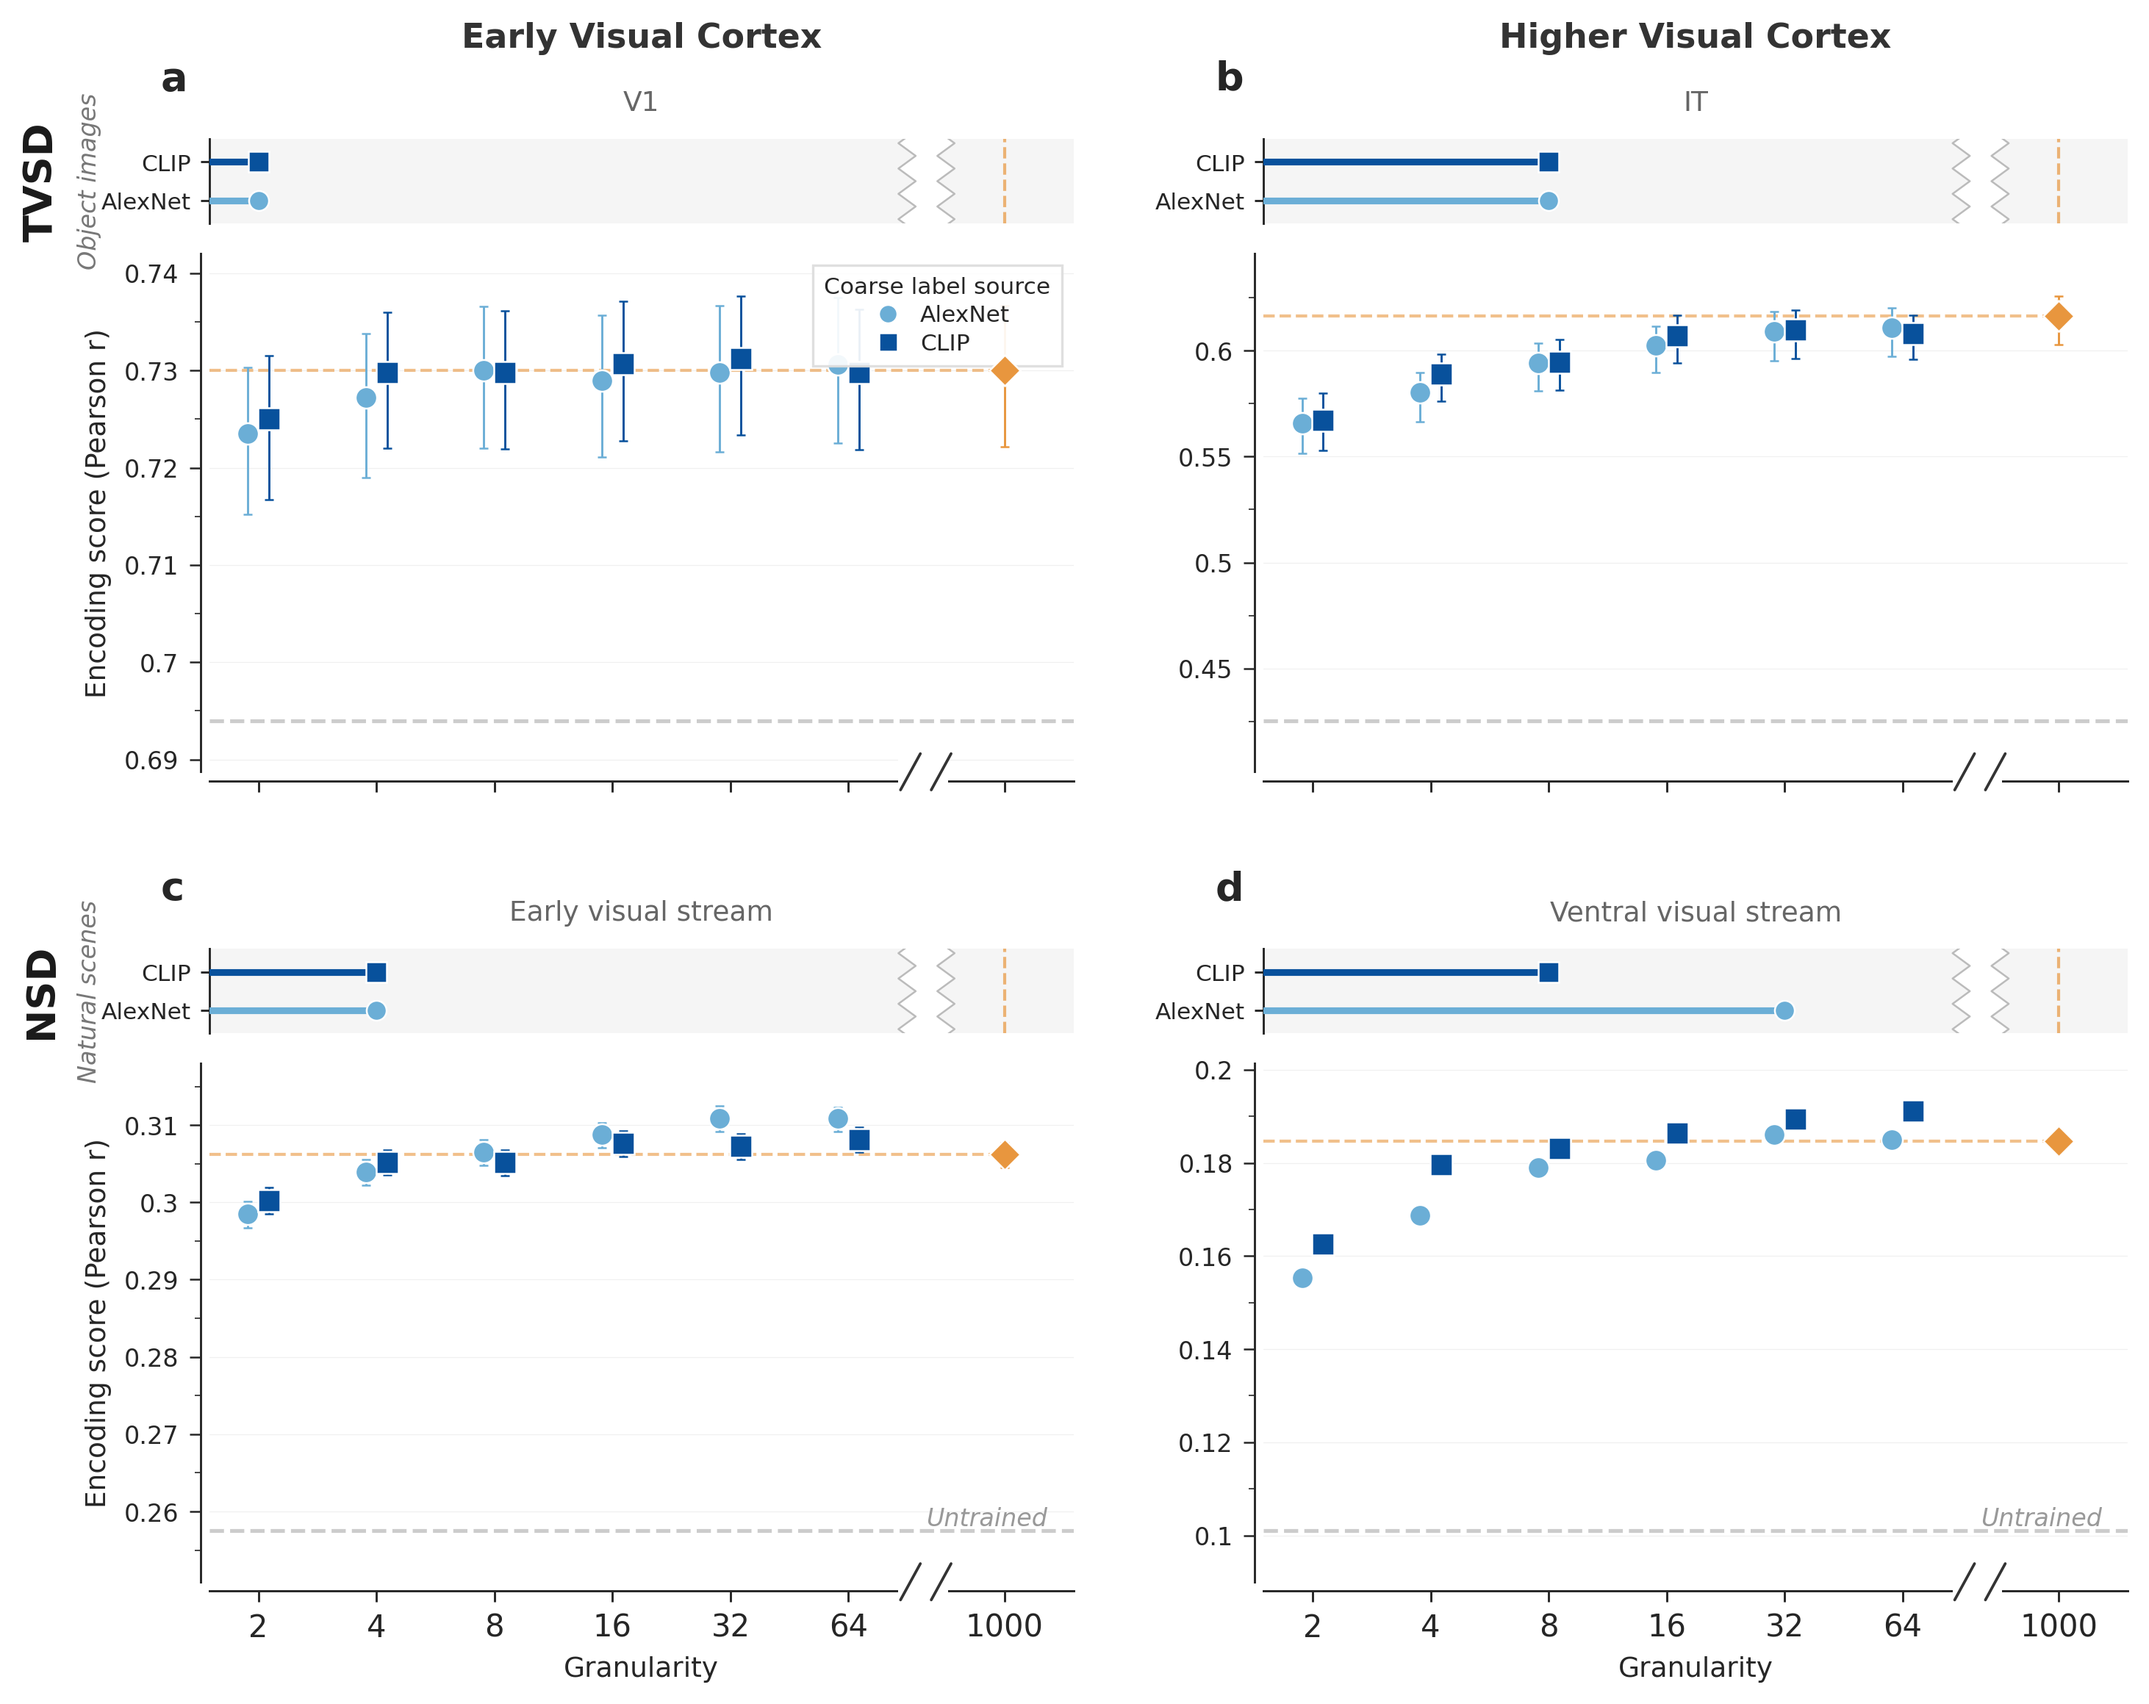
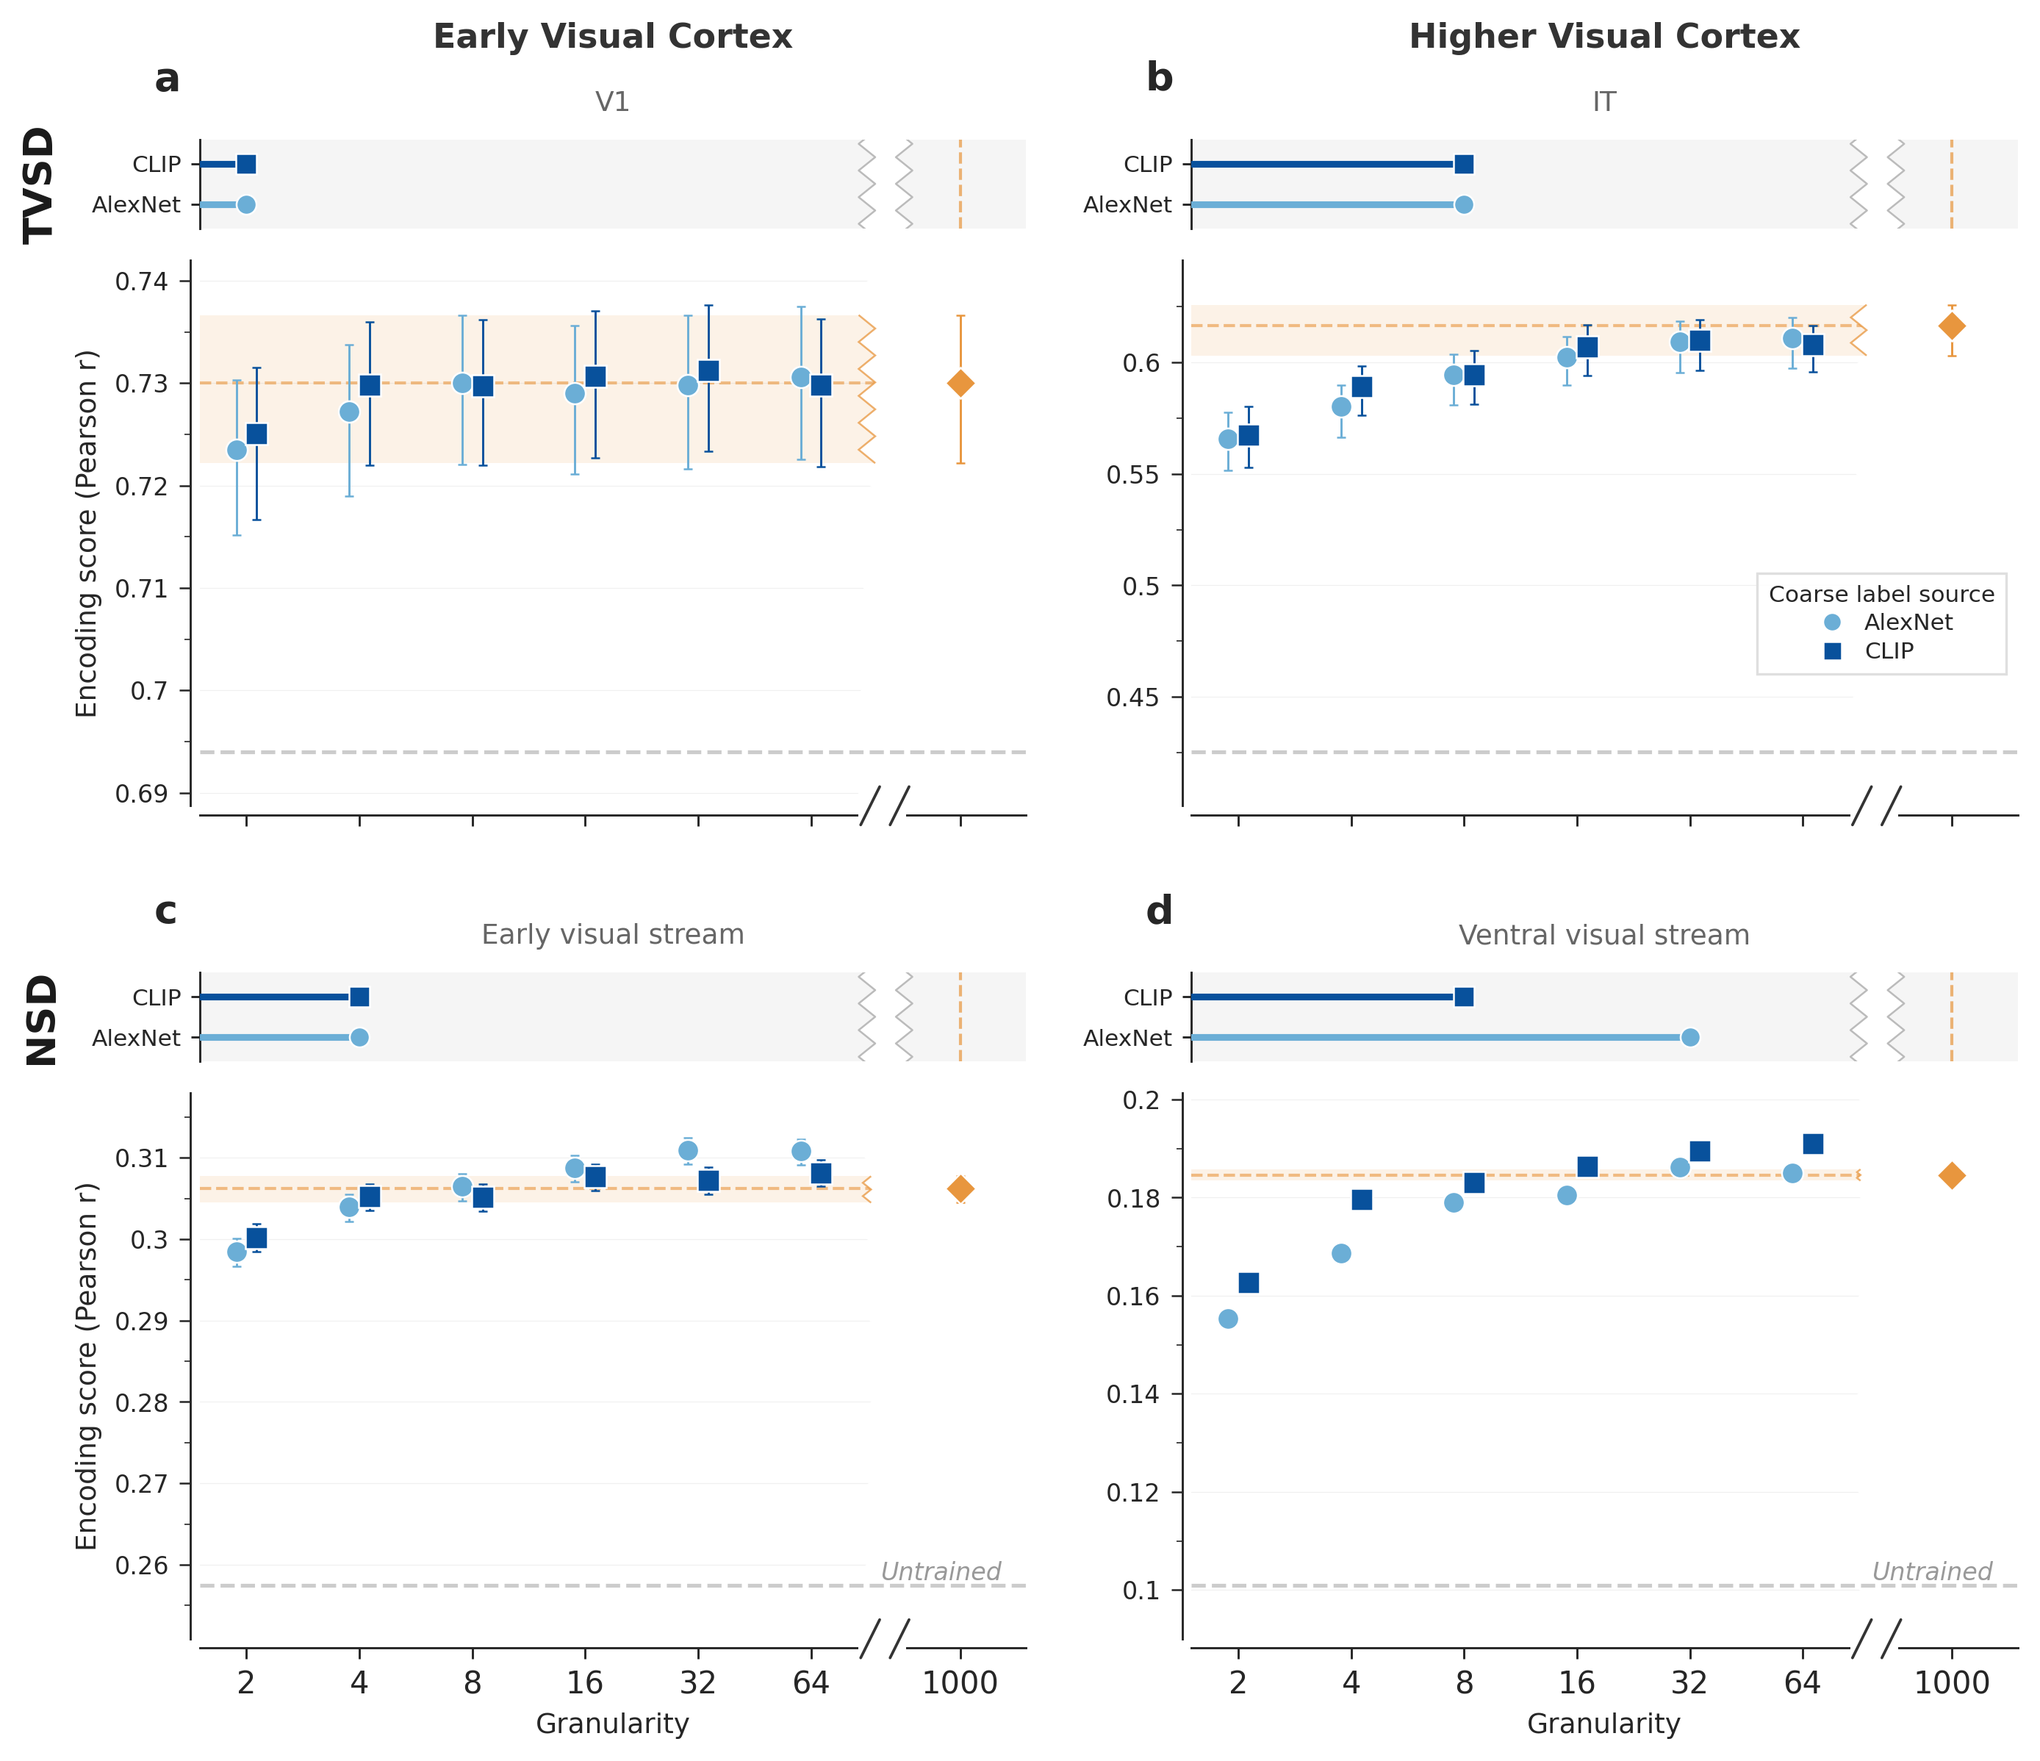
🎨 ED Figs 3/4/7: chance line, S3 refactor, S7b sync to Fig. 4B
ED Fig. 4 adds a chance-accuracy marker at 100/granularity and a 1000-way
chance tick, switches the legend to lower-left, and anchors the y-axis
at 0. ED Fig. 3 scatter refactor. ED Fig. 7b (THINGS behavioral) now
dry-runs fig4.panel_coarseness to force matching y-limits.

diff --git a/manuscript/figures/extended_data/S3_encoding_scores/S3_encoding_scores.py b/manuscript/figures/extended_data/S3_encoding_scores/S3_encoding_scores.py
@@ -35,6 +35,8 @@ from fig_utils import (
 sys.path.insert(0, "manuscript/figures/fig3")
 from shared import ARCH_STYLE, BASELINE_1K_COLOR, format_yaxis
 from panel_bits import LOLLIPOP_ARCHS, STEM_LW, MARKER_SZ, X_START, _draw_lollipop_break
+import panel_raw as _fig3_panel_raw
+from panel_raw import plot_raw as _fig3_plot_raw
 
 OUTPUT_DIR = "manuscript/figures/extended_data/S3_encoding_scores"
 ANALYSIS = "encoding_score"
@@ -86,95 +88,27 @@ def fetch_coarse_ci_enc(dataset, folder, region, cfg):
     return s["mean"], s["ci_low"], s["ci_high"]
 
 
-# ── Panel renderers (replicate panel_raw/panel_bits with encoding fetchers) ──
-
-def _format_broken_xaxis(ax, show_xlabel):
-    ax.set_xscale("log", base=2)
-    all_x = COARSE_CFGS + [BREAK_1K_POS]
-    label_map = {v: str(v) for v in COARSE_CFGS}
-    label_map[BREAK_1K_POS] = "1000"
-    ax.xaxis.set_major_locator(FixedLocator(all_x))
-    if show_xlabel:
-        ax.xaxis.set_major_formatter(FuncFormatter(
-            lambda val, pos: label_map.get(int(round(val)), "")))
-        ax.set_xlabel("Granularity", fontsize=9, labelpad=4)
-    else:
-        ax.xaxis.set_major_formatter(FuncFormatter(lambda val, pos: ""))
-    ax.xaxis.set_minor_locator(NullLocator())
-    ax.tick_params(axis="x", which="minor", bottom=False)
-    ax.tick_params(axis="x", which="major", length=3.5, width=0.7, labelsize=10)
-    ax.set_xlim(1.5, BREAK_1K_POS * 1.5)
+# ── Monkey-patch fig3.panel_raw so plot_raw uses encoding-score fetchers ──
+# plot_raw looks up ARCHITECTURES / ARCH_STYLE / fetch_* in its own module
+# namespace at call time. Rebinding those names here makes plot_raw render
+# encoding-score data with fig3's exact visual style (torn CI band included).
+_fig3_panel_raw.ARCHITECTURES   = ARCHITECTURES
+_fig3_panel_raw.ARCH_STYLE      = ARCH_STYLE
+_fig3_panel_raw.fetch_arch_data = fetch_arch_data_enc
+_fig3_panel_raw.fetch_baseline  = fetch_baseline_enc
+_fig3_panel_raw.fetch_baseline_ci = fetch_baseline_ci_enc
 
 
 def plot_raw_enc(ax, dataset, region, show_ylabel=True, show_xlabel=True,
-                 show_untrained_label=False, tick_interval=None):
-    bl_mean, bl_ci_low, bl_ci_high = fetch_baseline_ci_enc(dataset, region)
-    if np.isnan(bl_mean) or bl_mean == 0:
-        ax.text(0.5, 0.5, "No data", ha="center", va="center",
-                transform=ax.transAxes, fontsize=7, color="#888")
-        return
-
-    untrained_mean = fetch_baseline_enc(dataset, region, epoch=0)
-
-    all_y = [bl_mean]
-    if not np.isnan(bl_ci_low):  all_y.append(bl_ci_low)
-    if not np.isnan(bl_ci_high): all_y.append(bl_ci_high)
-    if not np.isnan(untrained_mean): all_y.append(untrained_mean)
-
-    for arch_idx, (arch_key, folder, _) in enumerate(ARCHITECTURES):
-        style = ARCH_STYLE[arch_key]
-        means, errs_lo, errs_hi = fetch_arch_data_enc(dataset, folder, region)
-        for i, m in enumerate(means):
-            if not np.isnan(m):
-                all_y.extend([m - errs_lo[i], m + errs_hi[i]])
-        jitter = compute_jitter(arch_idx, len(ARCHITECTURES))
-
-        for i, cfg in enumerate(COARSE_CFGS):
-            if np.isnan(means[i]):
-                continue
-            ax.errorbar(cfg * jitter, means[i],
-                        yerr=[[errs_lo[i]], [errs_hi[i]]],
-                        fmt=style["marker"], color=style["color"],
-                        markersize=MARKER_SIZE,
-                        markeredgecolor=EDGE_COLOR, markeredgewidth=EDGE_WIDTH,
-                        capsize=1.5, capthick=0.5,
-                        ecolor=style["color"], elinewidth=0.7, zorder=4)
-
-    bl_err_lo = max(bl_mean - bl_ci_low, 0) if not np.isnan(bl_ci_low) else 0
-    bl_err_hi = max(bl_ci_high - bl_mean, 0) if not np.isnan(bl_ci_high) else 0
-    ax.errorbar(BREAK_1K_POS, bl_mean,
-                yerr=[[bl_err_lo], [bl_err_hi]],
-                fmt="D", color=BASELINE_1K_COLOR, markersize=MARKER_SIZE,
-                markeredgecolor=EDGE_COLOR, markeredgewidth=EDGE_WIDTH,
-                capsize=1.5, capthick=0.5,
-                ecolor=BASELINE_1K_COLOR, elinewidth=0.7, zorder=5)
-
-    ax.plot([1.5, BREAK_1K_POS], [bl_mean, bl_mean],
-            color=BASELINE_1K_COLOR, linestyle="--",
-            linewidth=1.0, alpha=0.6, zorder=2, clip_on=False)
-
-    if not np.isnan(untrained_mean):
-        ax.axhline(untrained_mean, color="#AAAAAA", linestyle="--",
-                   linewidth=1.25, alpha=0.6, zorder=2)
-        if show_untrained_label:
-            ax.text(0.97, untrained_mean, "Untrained",
-                    fontsize=8, fontstyle="italic", color="#999999",
-                    ha="right", va="bottom",
-                    transform=ax.get_yaxis_transform(), zorder=10)
-
-    y_min, y_max = min(all_y), max(all_y)
-    y_range = y_max - y_min if y_max > y_min else max(abs(y_max), 1e-3)
-
-    _format_broken_xaxis(ax, show_xlabel)
-    draw_xaxis_break(ax)
-    ax.set_ylim(y_min - y_range * 0.12, y_max + y_range * 0.10)
-    format_yaxis(ax, tick_interval=tick_interval)
-
+                 show_untrained_label=False, tick_interval=None,
+                 lollipop_ax=None):
+    """Delegates to fig3.panel_raw.plot_raw (encoding-score fetchers patched above)."""
+    _fig3_plot_raw(ax, dataset, region,
+                   show_ylabel=show_ylabel, show_xlabel=show_xlabel,
+                   show_untrained_label=show_untrained_label,
+                   tick_interval=tick_interval, lollipop_ax=lollipop_ax)
     if show_ylabel:
         ax.set_ylabel("Encoding score (Pearson r)", fontsize=9, labelpad=4)
-    else:
-        ax.set_ylabel("")
-    sns.despine(ax=ax, right=True, top=True, offset=3)
 
 
 def _find_min_classes_enc(dataset, folder, region, bl_ci_low):
@@ -242,14 +176,17 @@ def main():
         "ytick.major.width": 0.7,
     })
 
-    fig = plt.figure(figsize=(10, 8.5))
+    # Match fig3's per-panel x-axis width (3.747"):
+    # per_col = (right-left)*W / (n_cols + (n_cols-1)*wspace)
+    # 3.747 = 0.87*W / 2.20  →  W ≈ 9.48
+    fig = plt.figure(figsize=(9.48, 8.5))
 
     # 2 rows (TVSD | NSD) x 2 cols (early | higher) — no schematic column
     outer = gridspec.GridSpec(2, 2, figure=fig,
                               height_ratios=[1, 1],
                               width_ratios=[1, 1],
-                              hspace=0.28, wspace=0.22,
-                              left=0.10, right=0.97, top=0.86, bottom=0.09)
+                              hspace=0.25, wspace=0.20,
+                              left=0.10, right=0.97, top=0.88, bottom=0.08)
 
     panel_defs = [
         # (row, col, dataset, region, show_ylabel, show_xlabel, tick_interval)
@@ -268,14 +205,14 @@ def main():
             height_ratios=[0.14, 0.86], hspace=0.10)
 
         ax_raw = fig.add_subplot(inner[1, 0])
+        ax_lol = fig.add_subplot(inner[0, 0], sharex=ax_raw)
         show_untrained = (orow == 1)
         plot_raw_enc(ax_raw, ds, region,
                      show_ylabel=ylabel, show_xlabel=xlabel,
                      show_untrained_label=show_untrained,
-                     tick_interval=ytick)
+                     tick_interval=ytick, lollipop_ax=ax_lol)
         axes_scatter[(orow, ocol)] = ax_raw
 
-        ax_lol = fig.add_subplot(inner[0, 0], sharex=ax_raw)
         plot_lollipop_enc(ax_lol, ds, region, show_ylabel=True)
         axes_lollipop[(orow, ocol)] = ax_lol
 
@@ -289,16 +226,10 @@ def main():
                 [scat_pos.x0, lol_pos.y0, scat_pos.width, lol_pos.height])
 
     # Row headers (dataset name on the left)
-    row_info = [(0, "TVSD", "Object images"), (1, "NSD", "Natural scenes")]
-    for row, title, subtitle in row_info:
+    for row, title in [(0, "TVSD"), (1, "NSD")]:
         pos_l = axes_lollipop[(row, 0)].get_position()
-        pos_r = axes_lollipop[(row, 1)].get_position()
-        y_top = max(pos_l.y1, pos_r.y1)
         fig.text(0.015, (pos_l.y0 + pos_l.y1) / 2, title,
                  fontsize=13, fontweight="bold", color="#1a1a1a",
-                 ha="left", va="center", rotation=90)
-        fig.text(0.040, (pos_l.y0 + pos_l.y1) / 2, subtitle,
-                 fontsize=8, color="#777777", fontstyle="italic",
                  ha="left", va="center", rotation=90)
 
     # Column headers
@@ -332,11 +263,13 @@ def main():
                       markeredgecolor=EDGE_COLOR, markeredgewidth=EDGE_WIDTH,
                       markersize=6, label=d)
                for k, _, d in ARCHITECTURES]
-    axes_scatter[(0, 0)].legend(handles=handles, fontsize=7.5, frameon=True,
+    # Place legend in panel b (IT), right side, just above the untrained
+    # dashed grey line — mirrors fig3's bbox_to_anchor choice.
+    axes_scatter[(0, 1)].legend(handles=handles, fontsize=7.5, frameon=True,
                                 fancybox=False, framealpha=0.92, edgecolor="#dddddd",
                                 borderpad=0.5, handletextpad=0.4, labelspacing=0.3,
                                 title="Coarse label source", title_fontsize=7.5,
-                                loc="upper right")
+                                loc="lower right", bbox_to_anchor=(1.0, 0.22))
 
     out = f"{OUTPUT_DIR}/S3_encoding_scores.png"
     fig.savefig(out, dpi=300, bbox_inches="tight", facecolor="white", edgecolor="none")

diff --git a/manuscript/figures/extended_data/S4_training_accuracy/S4_training_accuracy.py b/manuscript/figures/extended_data/S4_training_accuracy/S4_training_accuracy.py
@@ -144,10 +144,16 @@ def main():
                                 ecolor=style["color"], elinewidth=0.7,
                                 zorder=4)
 
-        # Light connecting line
-        if len(valid_x) > 1:
-            ax_scatter.plot(valid_x, valid_y, color=style["color"],
-                            linewidth=0.8, alpha=0.3, zorder=3)
+    # ── Chance accuracy line: 100/granularity (%) ──
+    chance_x = np.array(COARSE_CFGS, dtype=float)
+    chance_y = 100.0 / chance_x
+    all_y.extend(chance_y.tolist())
+    ax_scatter.scatter(chance_x, chance_y, marker="P", s=38,
+                       color="#888888", edgecolor=EDGE_COLOR,
+                       linewidth=EDGE_WIDTH, zorder=2)
+    ax_scatter.text(chance_x[0] * 1.08, chance_y[0], "Chance",
+                    fontsize=7, fontstyle="italic", color="#666666",
+                    ha="left", va="bottom", zorder=10)
 
     # Scatter axis formatting
     ax_scatter.set_xscale("log", base=2)
@@ -174,7 +180,7 @@ def main():
                       fancybox=False, framealpha=0.92, edgecolor="#dddddd",
                       borderpad=0.5, handletextpad=0.4, labelspacing=0.3,
                       title="Coarse label\nsource", title_fontsize=7.5,
-                      loc="upper right")
+                      loc="lower left", bbox_to_anchor=(0.0, 0.0))
 
     # ── Right panel: 1000-way bar ──
     bl_mean, bl_sem = _load_baseline()
@@ -185,6 +191,10 @@ def main():
         ax_bar.errorbar(0, bl_mean, yerr=bl_sem,
                         fmt="none", ecolor="#333333", elinewidth=0.8,
                         capsize=3, capthick=0.7, zorder=4)
+
+    # Chance for 1000-way ≈ 0.1% — short dashed tick across the bar panel
+    ax_bar.scatter([0], [0.1], marker="P", s=38, color="#888888",
+                   edgecolor=EDGE_COLOR, linewidth=EDGE_WIDTH, zorder=2)
 
     ax_bar.set_xticks([0])
     ax_bar.set_xticklabels(["1000"], fontsize=8)
@@ -200,7 +210,7 @@ def main():
     # Shared y-limits
     y_min, y_max = min(all_y), max(all_y)
     y_range = y_max - y_min
-    ax_scatter.set_ylim(y_min - y_range * 0.10, y_max + y_range * 0.08)
+    ax_scatter.set_ylim(0, y_max + y_range * 0.08)
 
     fig.savefig(OUTPUT, dpi=300, bbox_inches="tight",
                 facecolor="white", edgecolor="none")
